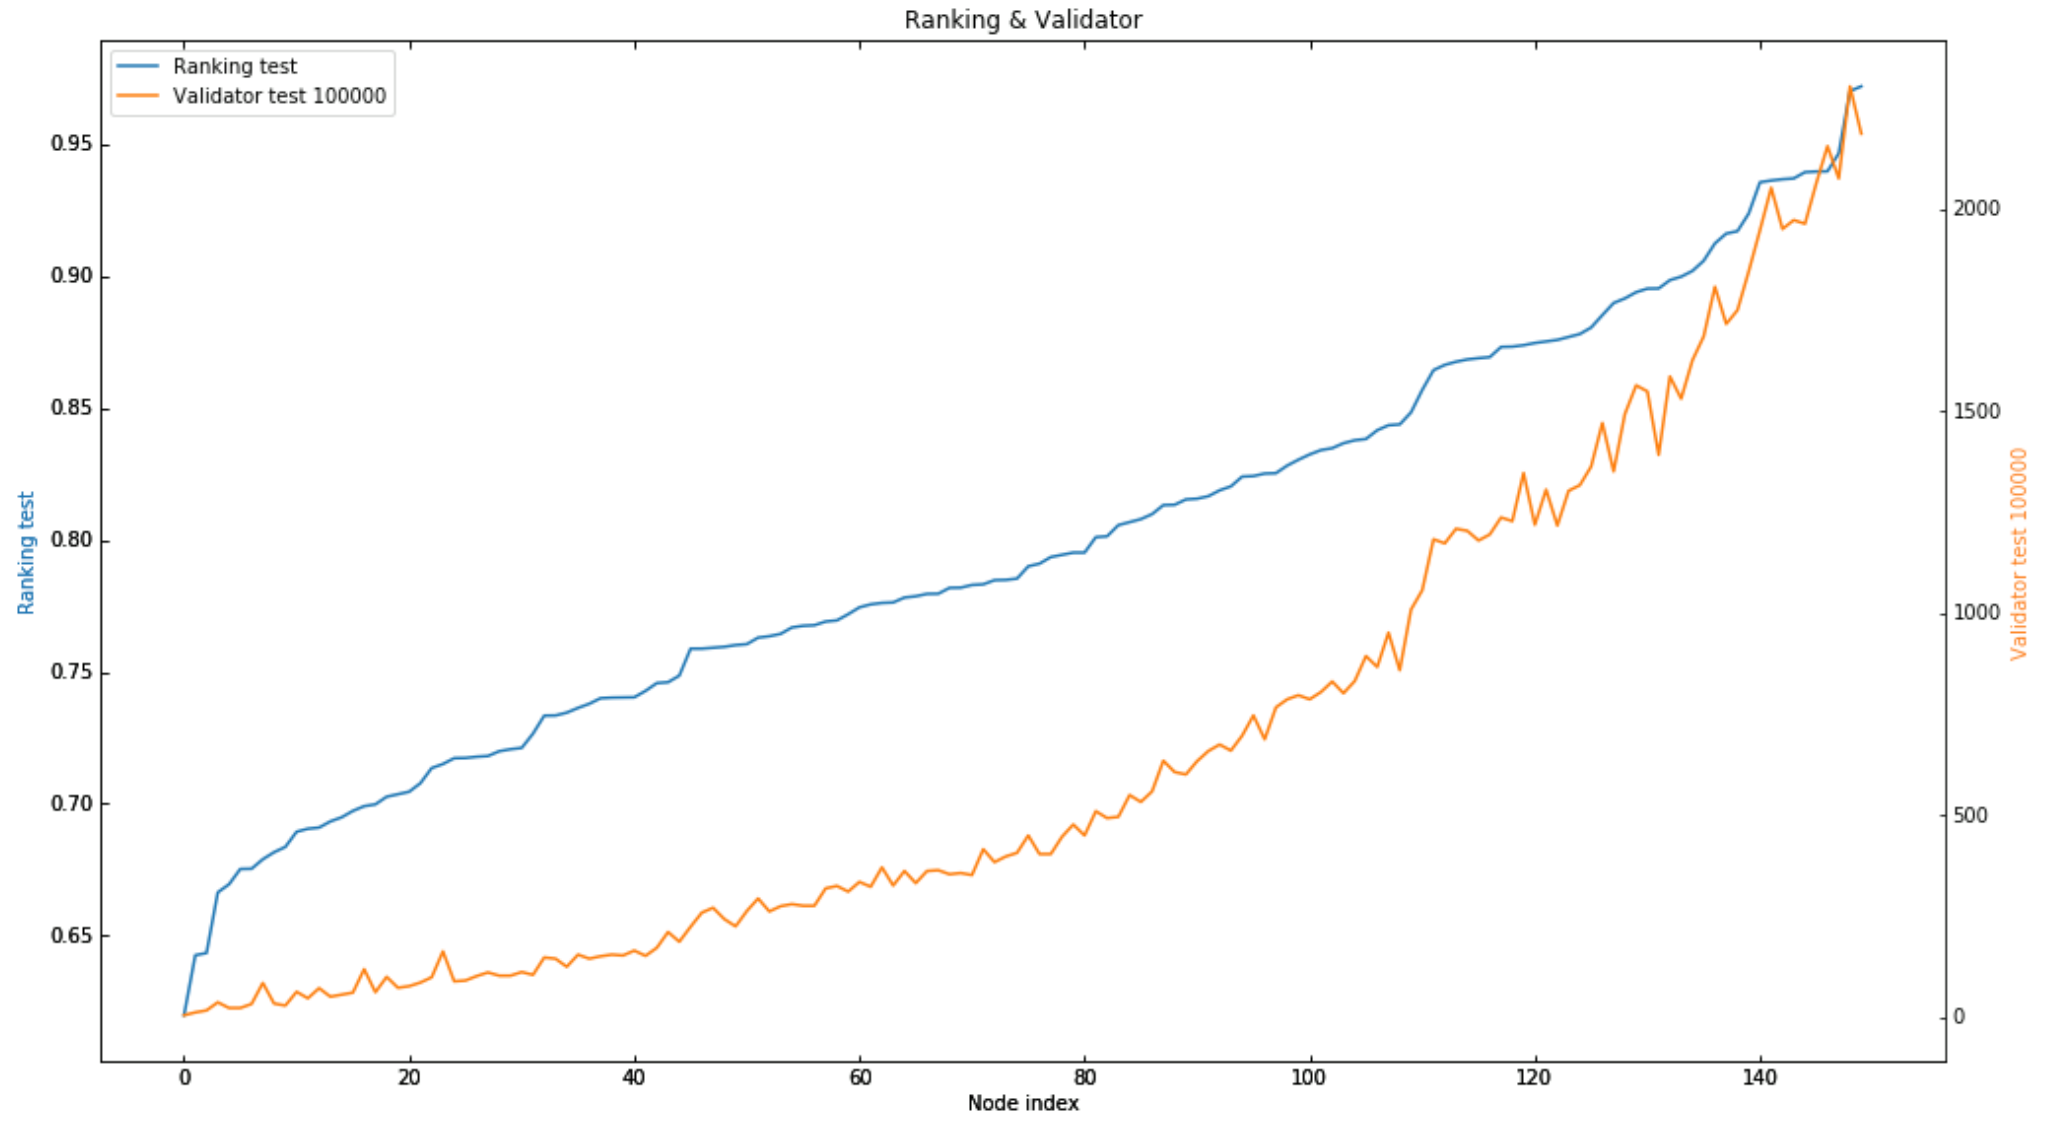
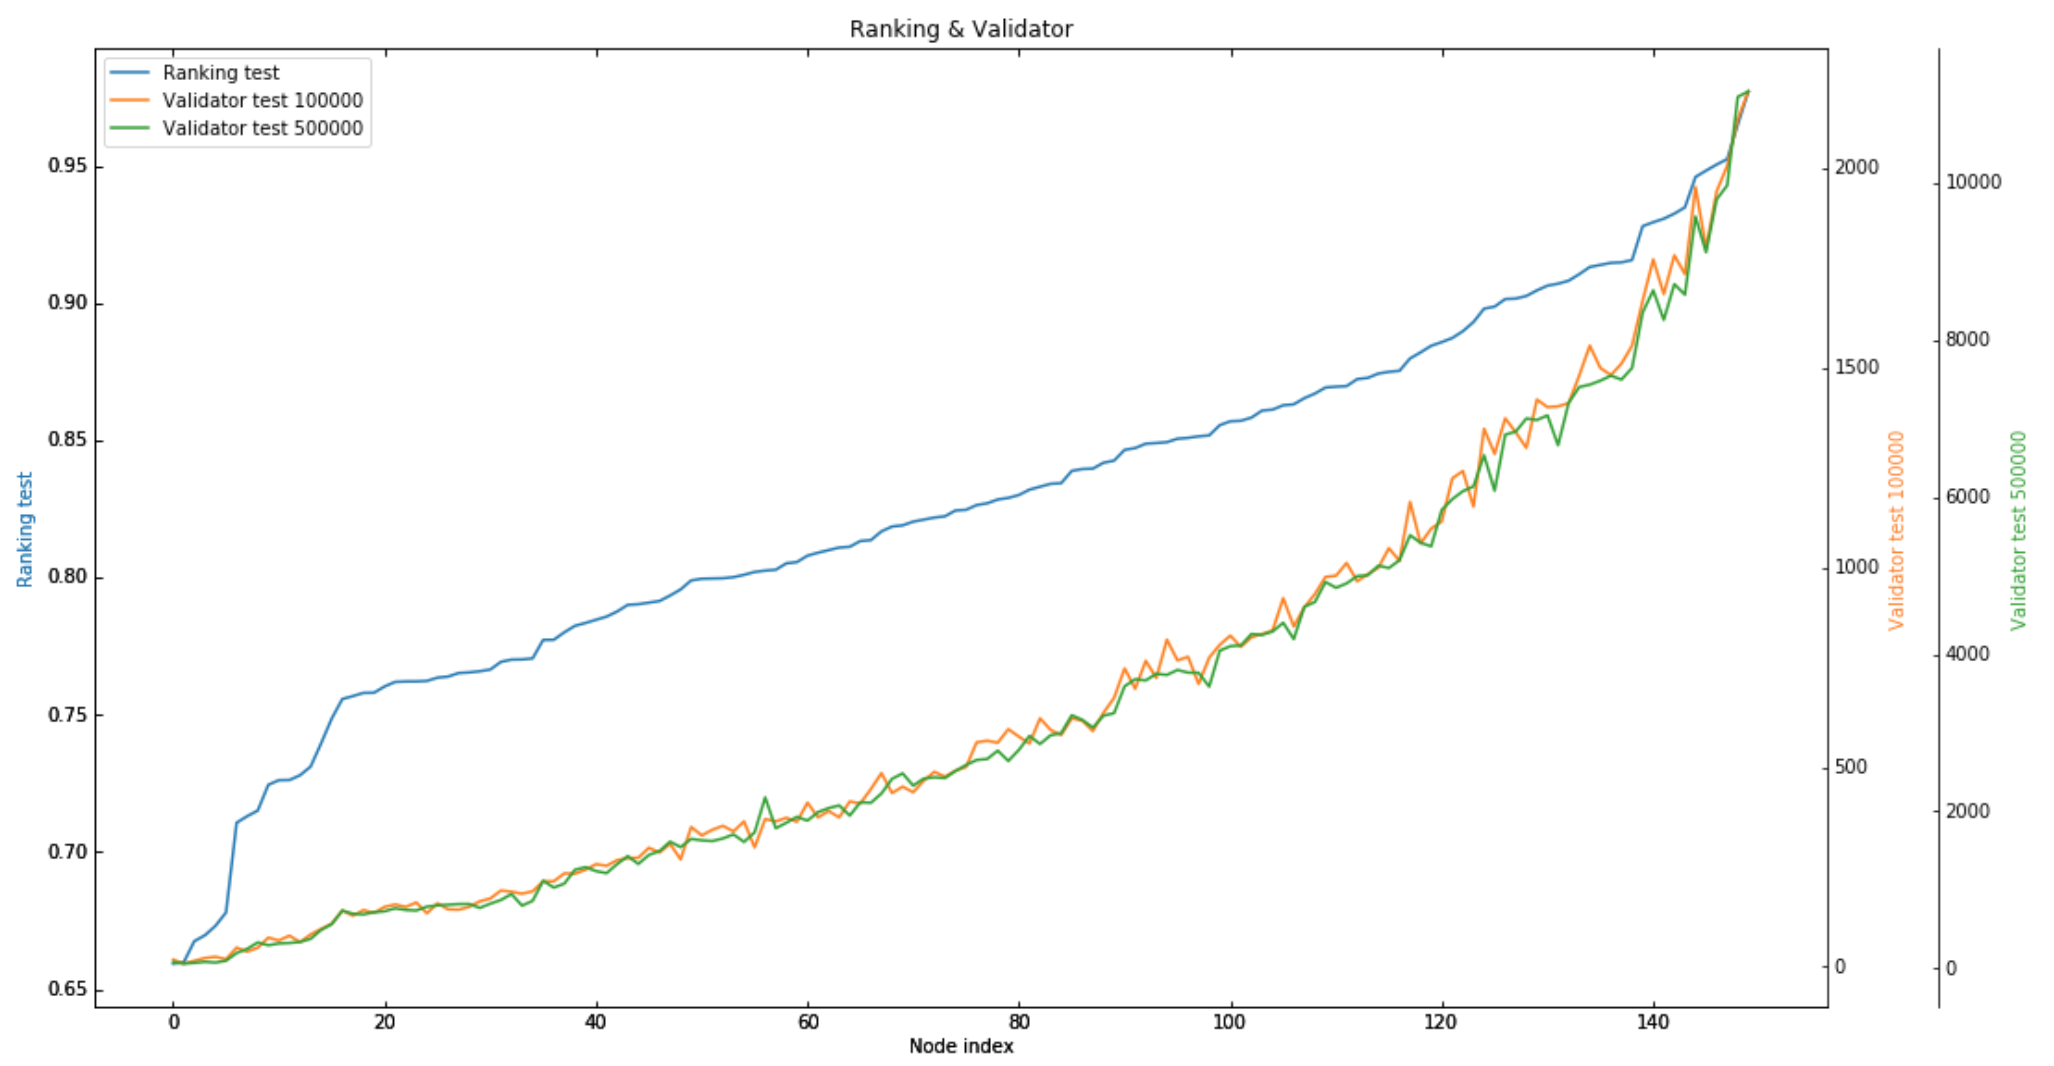
update consensus

diff --git a/consensus.md b/consensus.md
@@ -1,12 +1,12 @@
-
 # Abstract
+
 We introduce a new blockchain architecture and concept that is practical in terms of operability, scalable and economically sensible. NovaChain is a public EVM-compatible blockchain that focuses on maintaining an instantaneous confirmation time, high level of security and a sensible compensation scheme. We used a ranking proof of stake consensus for increased security and fast confrimation. Our ranking-bias voting mechanism provides a fair compensation scheme for our masternodes, thus encouraging each maternode to improve on its performance for maximum compensation. This benefits the entire ecosystem through healthy competition and high masternode engagement. Using our robust ecosystem, we eventually aim to built practical decentralised applications that will generate a revenue stream for our coin holders providing immediate dividends unlike an Equity underlying which normally pay quaterly dividends. This will greatly help the cryptocurrency ecosystem by conceptually bring it closer to mainstream finance and ultimately gaining institutional acceptance.
 
-# 
+#
+
 The cryptocurrency market has seen its share of bust and boom. The entire ecosystem have been littered with hacks and fraud giving it an undesired reputation. Critics have long profess that cryptocurrencies have no practical use, do not generate revenue and thus possess no intrinsic value. To address these issues, Novalex aims to create a new age blockchain that is pushing the boundaries of decentralisation. Our focus is not only on buiding the underlying blockchain technology. We also leverage the technology to build useful DApps that the transcend the journey towards economic decentralisation where top and profitable business applications are built. We aim to build a blockchain that generates a revenue stream just like an conventional Equity underlying.
 
 # Architecture
-
 
 # Ranking Proof Of Stake Consensus
 
@@ -110,73 +110,9 @@ Block is created by block producer, namely masternode. First block creator is mo
 The algorithm is as following:
 
 ```python
-LEADER = "leader"
-VALIDATOR = "validator"
-NUMBER_OF_DEPOSIT = "deposit"
-NODE = "node"
-SPEED = "speed"
-RANKING = "ranking"
-TRUST = "trust"
-NUMBER_OF_EPOCH = "epoch"
-LEADER_TEST = "leader_test"
-VALIDATOR_TEST = "validator_test"
-
-#init nodes
-def init_nodes(number_of_node):
-    nodes = []
-    for i in range(number_of_node):
-        nodes.append({})
-        nodes[i][NODE] = i+1
-        nodes[i][SPEED] = 0
-        nodes[i][RANKING] = 0
-        nodes[i][TRUST] = 0
-        nodes[i][LEADER] = 0
-        nodes[i][VALIDATOR] = 0
-        nodes[i][NUMBER_OF_DEPOSIT] = 0
-        nodes[i][NUMBER_OF_EPOCH] = 0
-        nodes[i][LEADER_TEST] = 0
-        nodes[i][VALIDATOR_TEST] = 0
-
-    return nodes
-
-#random speed of nodes
-def random_nodes_speed(nodes):
-    arr_speed = np.random.randint(low=5,high=10,size=len(nodes)).tolist()
-    for i in range(len(arr_speed)):
-        nodes[i][SPEED] = arr_speed[i]
-    return arr_speed
-In [4]:
-#random number of epochs that masternode join in blockchain
-def random_epochs_of_nodes(nodes, total_epoch):
-    arr_epochs = np.random.randint(low=total_epoch/2,high=total_epoch,size=len(nodes)).tolist()
-    for i in range(len(nodes)):
-        nodes[i][NUMBER_OF_EPOCH] = arr_epochs[i]
-    return arr_epochs
-
-def random_leader(nodes):
-    maximum = -1
-    index_of_leader = -1
-    arr_deposit = np.random.randint(low=50000,high=100000,size=len(nodes)).tolist()
-    for i in range(len(arr_deposit)):
-        if arr_deposit[i] > maximum:
-            maximum = arr_deposit[i]
-            index_of_leader = i
-    nodes[index_of_leader][LEADER] += 1
-
-def random_validator(nodes):
-    maximum = -1
-    index_of_validator = -1
-    arr_validator = np.random.rand(len(nodes)).tolist()
-    for i in range(len(arr_validator)):
-        if arr_validator[i] > maximum:
-            maximum = arr_validator[i]
-            index_of_validator = i
-    nodes[index_of_validator][VALIDATOR] += 1
-
 def deposit_votes(nodes):
     deposit_vote_max = -1
     arr_deposit_vote = np.random.randint(low=50000,high=1000000,size=len(nodes)).tolist()
-#     arr_deposit_vote = np.sort(arr_deposit_vote)[::-1]
     for i in range(len(arr_deposit_vote)):
         nodes[i][NUMBER_OF_DEPOSIT] = arr_deposit_vote[i]
         if arr_deposit_vote[i] > deposit_vote_max:
@@ -184,7 +120,7 @@ def deposit_votes(nodes):
     return arr_deposit_vote, deposit_vote_max
 
 # chose a leader node by voting
-def vote_leader_test01(nodes):
+def vote_leader_test(nodes):
 
     #random array with length is number of canidate of leader
     arr_random = np.random.rand(len(nodes)).tolist()
@@ -226,7 +162,7 @@ def ranking(nodes, arr_deposit_vote, trust_max, deposit_max):
         vote_deposit_avg = arr_deposit_vote[i] / deposit_max
         trust_avg = nodes[i][TRUST] / trust_max
         nodes[i][RANKING] = a * vote_deposit_avg + (1-a) * math.sqrt(trust_avg)
-        print(vote_deposit_avg, ":", trust_avg)
+
 
 # Random validator base on Ranking of each node
 def choose_validator_test(nodes, leader):
@@ -268,7 +204,7 @@ ranking(nodes, arr_deposit_vote, trust_max, deposit_max)
 for i in range(len(nodes)):
     nodes[i][LEADER_TEST] = 0
     nodes[i][VALIDATOR_TEST] = 0
-for i in range(100000):
+for i in range(500000):
     leader_test = vote_leader_test01(nodes)
     validator_test = choose_validator_test(nodes, leader_test)
 nodes.sort(key=lambda x: x[RANKING])
@@ -276,7 +212,7 @@ nodes.sort(key=lambda x: x[RANKING])
 
 ![selection](assets/node_selection.png)
 
-**With 1 000 000 nodes**  
+**With 150 nodes testing in 100.000 and 500.000 loop**  
 ![1 million node](assets/consensus_1m.png)
 
 ```mermaid
@@ -296,16 +232,10 @@ By applying ranking algorithm ( AI enhanced ) we can solve the most vexing limit
 
 ### Performance of Voting Mechanism
 
-
-
 # Application
 
 ### Financial Services: Decentralised Exchange
 
 ### Financial Services: KYC and AML Application
 
-
 # Conclusion
-
-
-
